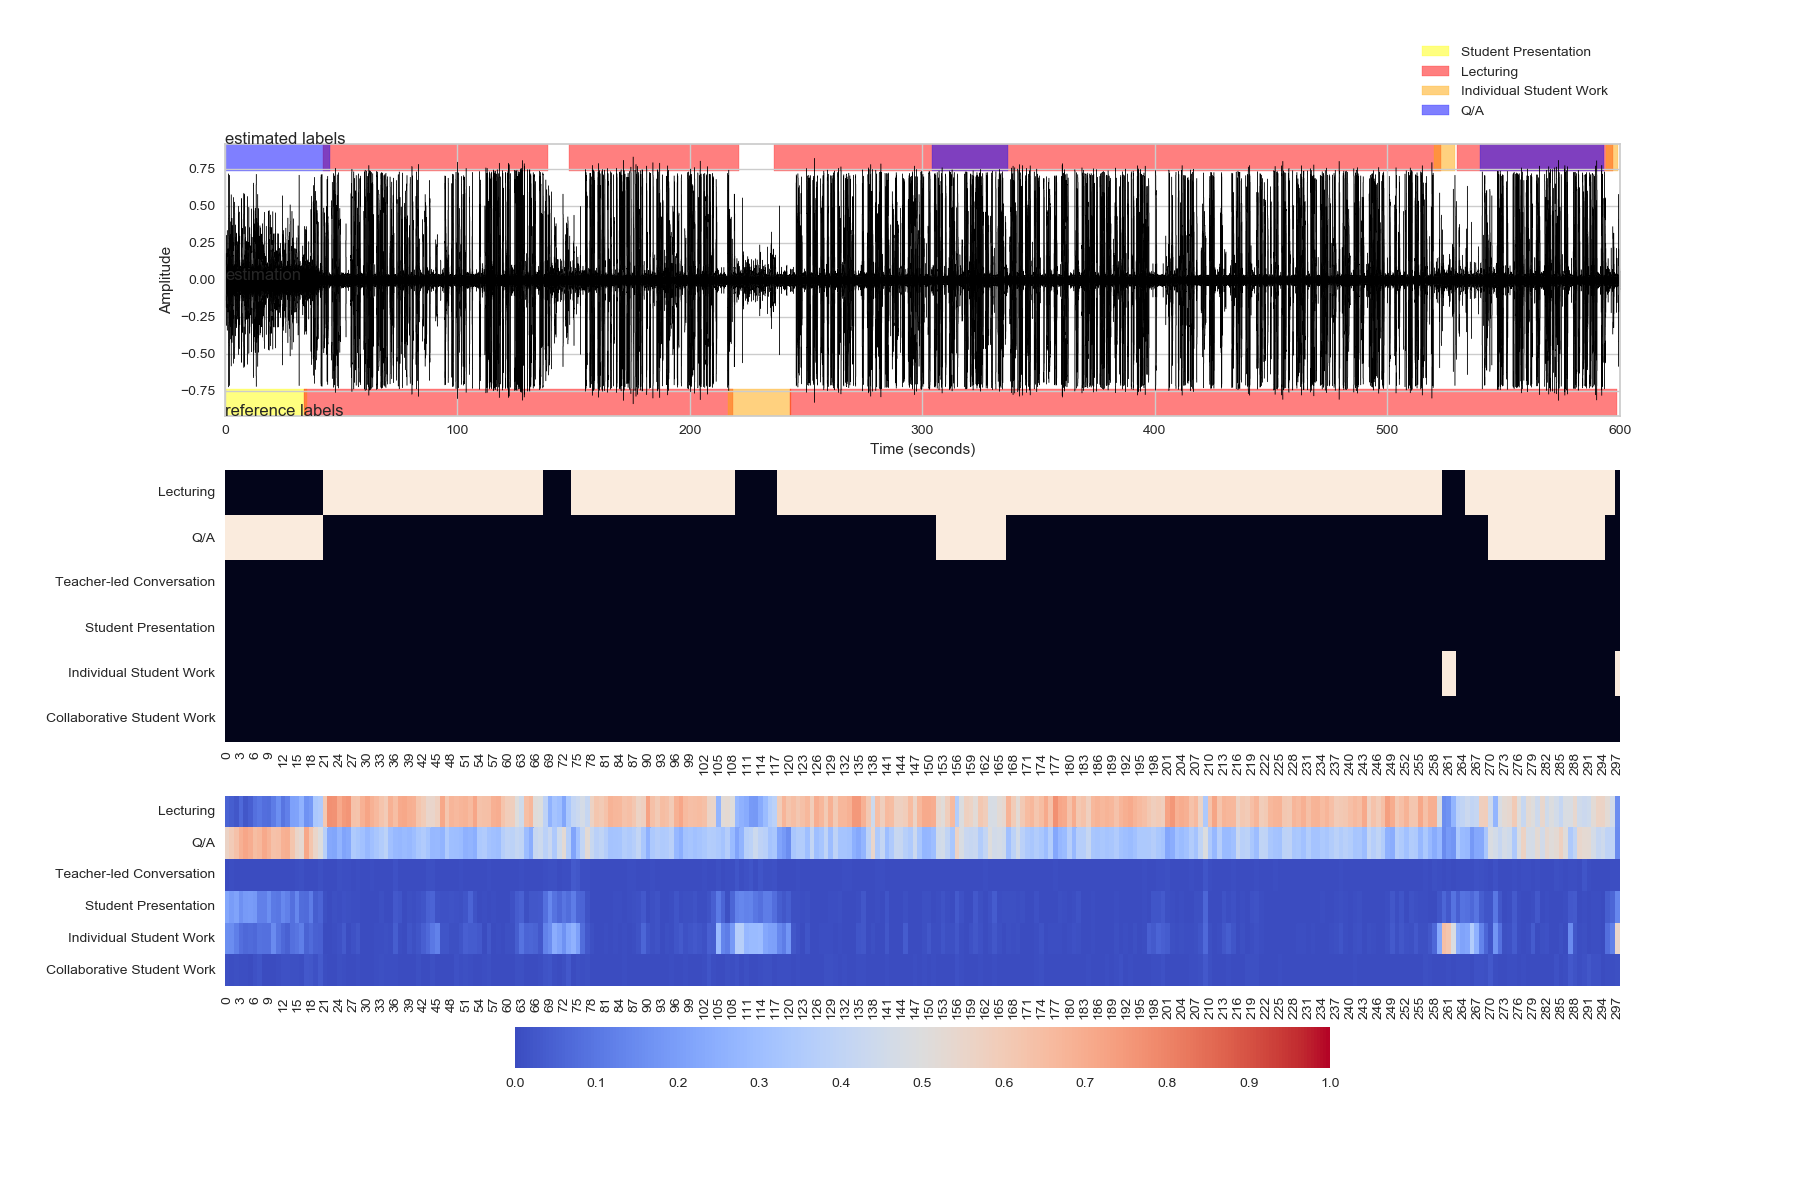
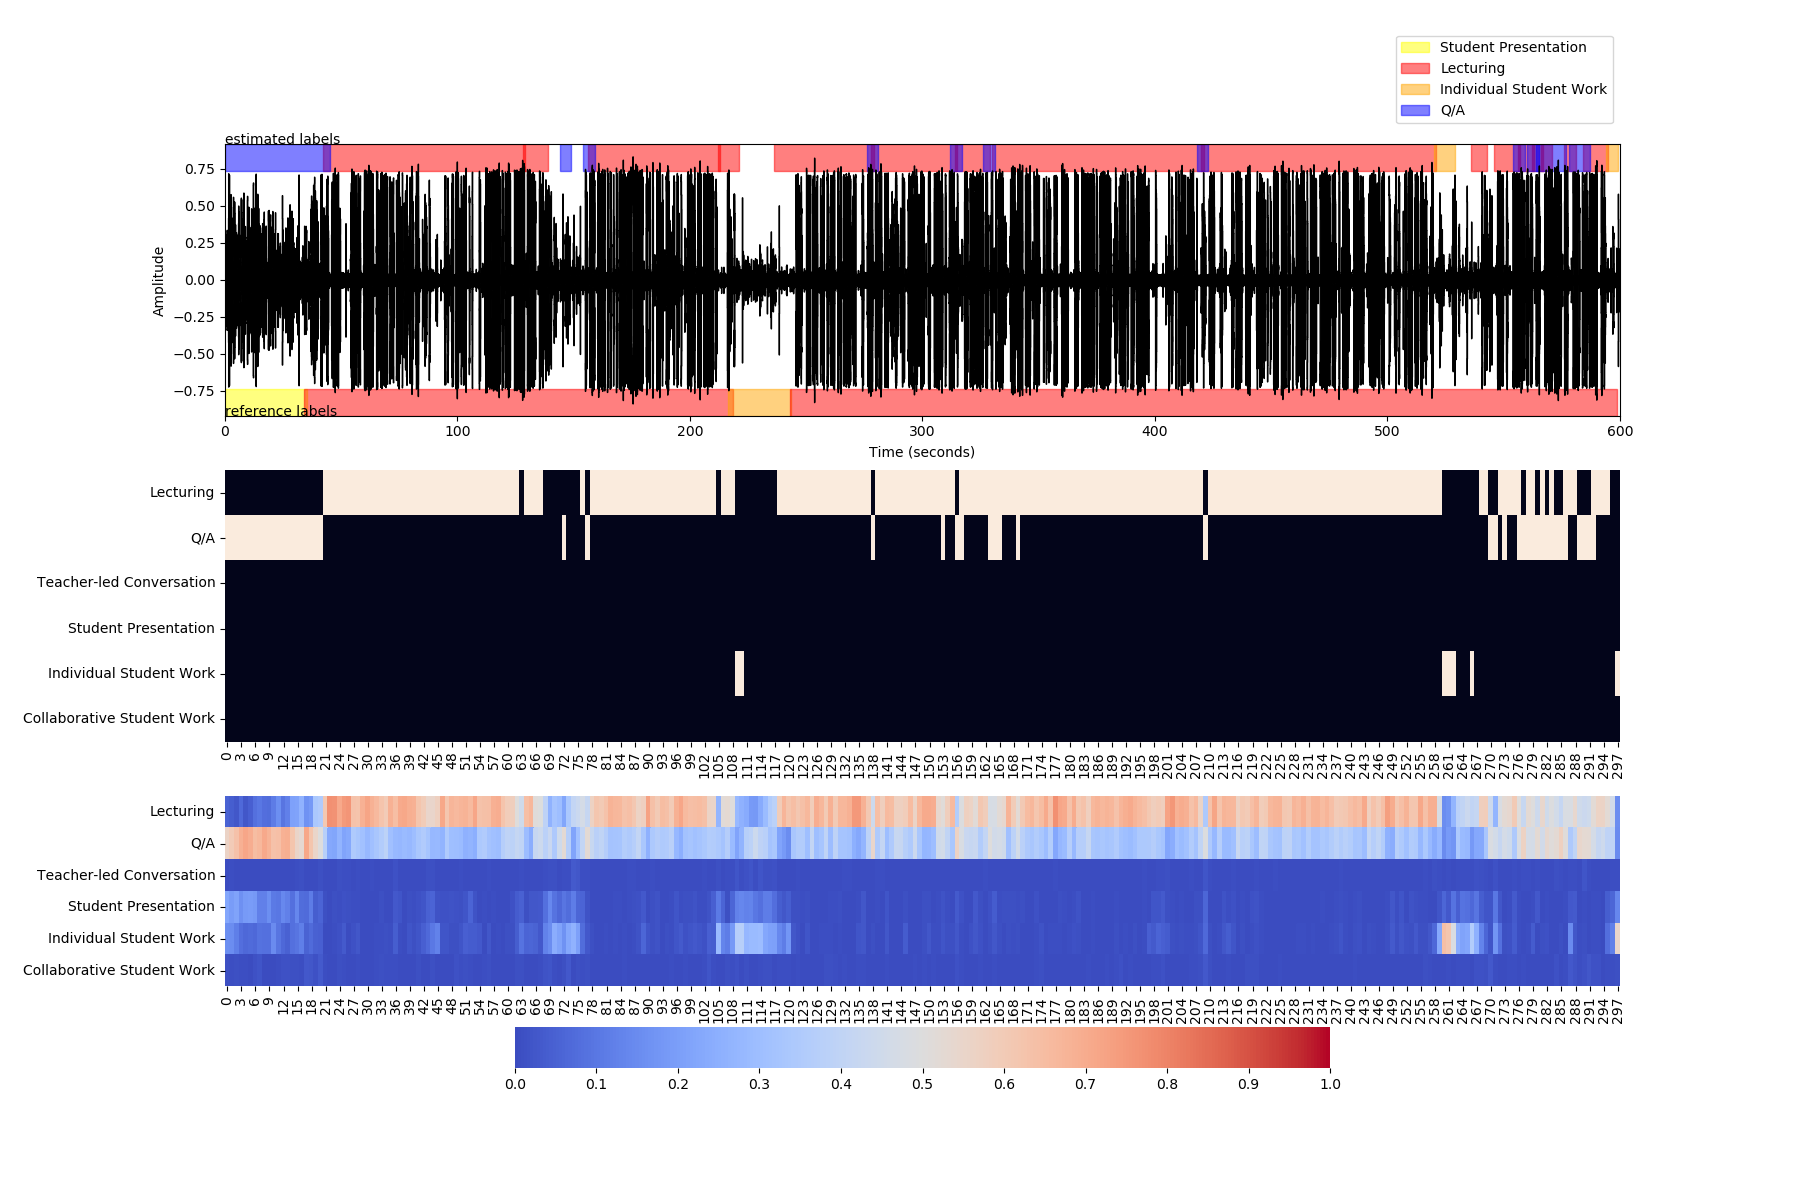
add viterbi params

diff --git a/CASED.py b/CASED.py
@@ -189,8 +189,16 @@ class CASED:
         y_pred_prob = self.best_model.predict_proba(features_matrix)
 
         return y_pred_prob
+    
+    def predict_threshold(self, file_name, audio_path, cache_path, load_cache=False):
+        y_pred_prob = self.predict_proba(file_name, audio_path, cache_path, load_cache=load_cache)
 
-    def predict_binary(self, file_name, audio_path, cache_path, trans_prob_01=0.5, trans_prob_10=0.5,
+        y_pred_threshold = np.array(
+            [(y_pred_prob_label[:, 1]>0.5).astype(int) for y_pred_prob_label in y_pred_prob])  # proba matrix [num classes, num samples]
+
+        return y_pred_threshold
+
+    def predict_viterbi(self, file_name, audio_path, cache_path, trans_prob_01=0.5, trans_prob_10=0.5,
                        p_state_weight=0.1,
                        load_cache=False):
         y_pred_prob = self.predict_proba(file_name, audio_path, cache_path, load_cache=load_cache)
@@ -208,14 +216,22 @@ class CASED:
         return binary_pred
 
     def predict_annotation(self, file_name, audio_path, cache_path, trans_prob_01=0.5, trans_prob_10=0.5,
-                           p_state_weight=0.1,
+                           p_state_weight=0.1, predict_type = 'viterbi_with_pstate',
                            load_cache=False):
         """predict the smoothed (onset,offset) sequence for each target class"""
         assert self.best_model is not None, 'get the best model first!'
+        assert predict_type in ['viterbi_with_pstate', 'viterbi_without_pstate', 'threshold']
 
-        binary_pred = self.predict_binary(file_name, audio_path, cache_path, trans_prob_01=trans_prob_01,
-                                          trans_prob_10=trans_prob_10, p_state_weight=p_state_weight,
-                                          load_cache=load_cache)
+        if predict_type == 'viterbi_with_pstate':
+            binary_pred = self.predict_viterbi(file_name, audio_path, cache_path, trans_prob_01=trans_prob_01,
+                                            trans_prob_10=trans_prob_10, p_state_weight=p_state_weight,
+                                            load_cache=load_cache)
+        elif predict_type == 'viterbi_without_pstate':
+            binary_pred = self.predict_viterbi(file_name, audio_path, cache_path, trans_prob_01=trans_prob_01,
+                                            trans_prob_10=trans_prob_10, p_state_weight=0,
+                                            load_cache=load_cache)
+        else:
+            binary_pred = self.predict_threshold(file_name, audio_path, cache_path, load_cache=load_cache)
 
         # Get start time, end time of consecutive 1s for each class
         append1 = np.zeros((binary_pred.shape[0], 1), dtype=int)
@@ -229,6 +245,8 @@ class CASED:
         estimated_event_list = []
         inv_map = self.reverse_label_dict
         for detected in start_stop:
+            if detected[0] not in self.reverse_label_dict.keys():
+                continue
             start_t = detected[1] * self.step_t
             end_t = detected[2] * self.step_t + self.frac_t
             estimated_event_list.append(
@@ -236,7 +254,7 @@ class CASED:
         return estimated_event_list
 
     def evaluate_all(self, annot_path, audio_path, cache_path, eval_result_path, trans_prob_01=None, trans_prob_10=None,
-                     p_state_weight=None, plot=False, load_cache=True):
+                     p_state_weight=None, plot=False, predict_type = 'viterbi_with_pstate', load_cache=True):
         if trans_prob_01 == None and trans_prob_10 == None and p_state_weight == None:
             trans_prob_01, trans_prob_10, p_state_weight = self.best_trans_prob_01, self.best_trans_prob_10, self.best_p_state_weight
 
@@ -256,7 +274,7 @@ class CASED:
                 reference_event_list = metadict['tricks']
             estimated_event_list = self.predict_annotation(file, audio_path, cache_path,
                                                            trans_prob_01=trans_prob_01, trans_prob_10=trans_prob_10,
-                                                           p_state_weight=p_state_weight,
+                                                           p_state_weight=p_state_weight, predict_type=predict_type,
                                                            load_cache=load_cache)
             for est_event_dict in estimated_event_list:
                 est_event_dict['event_label'] = self.label_dict[est_event_dict['event_label']]
@@ -284,6 +302,7 @@ class CASED:
             evaluation.plot_metrics(eval_result)
             confusion_matrix, event_labels = evaluation.get_confusion_matrix(evaluated_length_seconds=None)
             evaluation.plot_confusion_matrix(confusion_matrix, event_labels)
+        print(f'evaluated audios in {audio_path}')
 
         return macro_f
 
@@ -319,25 +338,35 @@ class CASED:
             with open(params_path, "wb") as f:
                 pickle.dump(params_set, f)
 
-    def visualize_pred(self, file_name, audio_path, cache_test_path, save_path, annot_path, trans_prob_01=0.5,
-                       trans_prob_10=0.5,
+    def visualize_pred(self, file_name, audio_path, cache_test_path, save_path, annot_path, trans_prob_01=None, trans_prob_10=None, p_state_weight=None, predict_type='viterbi_with_pstate',
                        load_cache=False):
+        assert predict_type in ['viterbi_with_pstate', 'viterbi_without_pstate', 'threshold']
+        if trans_prob_01 == None and trans_prob_10 == None and p_state_weight == None:
+            trans_prob_01, trans_prob_10, p_state_weight = self.best_trans_prob_01, self.best_trans_prob_10, self.best_p_state_weight
+
+        if predict_type == 'viterbi_with_pstate':
+            binary_pred = self.predict_viterbi(file_name, audio_path, cache_path, trans_prob_01=trans_prob_01,
+                                            trans_prob_10=trans_prob_10, p_state_weight=p_state_weight,
+                                            load_cache=load_cache)
+        elif predict_type == 'viterbi_without_pstate':
+            binary_pred = self.predict_viterbi(file_name, audio_path, cache_path, trans_prob_01=trans_prob_01,
+                                            trans_prob_10=trans_prob_10, p_state_weight=0,
+                                            load_cache=load_cache)
+        else:
+            binary_pred = self.predict_threshold(file_name, audio_path, cache_path, load_cache=load_cache)
         proba_pred = self.predict_proba(file_name, audio_path, cache_test_path, load_cache=load_cache)
-        binary_pred = self.predict_binary(file_name, audio_path, cache_test_path, trans_prob_01=trans_prob_01,
-                                          trans_prob_10=trans_prob_10,
-                                          load_cache=load_cache)
 
         with open(annot_path, 'r') as f:
             annot = json.load(f)
         metadict = self.get_metadict(annot, file_name)
         reference_event_list = metadict['tricks']
         estimated_event_list = self.predict_annotation(file_name, audio_path, cache_test_path,
-                                                       trans_prob_01=trans_prob_01, trans_prob_10=trans_prob_10,
+                                                       trans_prob_01=trans_prob_01, trans_prob_10=trans_prob_10, predict_type = predict_type,
                                                        load_cache=load_cache)
         visualizer = Visualizer(self.label_dict, self.reverse_label_dict)
         visualizer.plot(file_name, audio_path, save_path, reference_event_list, estimated_event_list, proba_pred,
                         binary_pred)
-        print(f'evaluated all audios in {audio_path} and results stored')
+        print(f'visualized audio in {file_name}')
 
 
 if __name__ == '__main__':
@@ -368,9 +397,8 @@ if __name__ == '__main__':
     cased.search_viterbi_params(annot_path, audio_path, cache_path, model_cache_path, eval_val_path,
                                 load_cache_params=True)
 
-    cased.evaluate_all(annot_path, audio_test_path, cache_test_path, eval_test_path, plot=True, load_cache=True)
+    cased.evaluate_all(annot_path, audio_test_path, cache_test_path, eval_test_path, plot=True, predict_type = 'threshold', load_cache=True)
 
     audiofiles_test = [f for f in os.listdir(audio_test_path) if f.endswith('wav')]
     for test_audio in audiofiles_test:
-        cased.visualize_pred(test_audio, audio_test_path, cache_test_path, plot_path, annot_path, trans_prob_01=0.5,
-                             trans_prob_10=0.3, load_cache=True)
+        cased.visualize_pred(test_audio, audio_test_path, cache_test_path, plot_path, annot_path, predict_type = 'viterbi_with_pstate', load_cache=True)

diff --git a/StagewiseModelScore.py b/StagewiseModelScore.py
@@ -19,23 +19,58 @@ if __name__ == '__main__':
     eval_val_path = 'data/COAS_2/Eval_val'
     plot_path = 'Plots'
 
-    # Version 0: without data augmentation and multi-scaling
-    cased = CASED(frac_t, long_frac_t, long_long_frac_t, step_t, target_class_version=0)
+    # Version 0: without data augmentation and multi-scaling, predict threshold
+    cased0 = CASED(frac_t, long_frac_t, long_long_frac_t, step_t, target_class_version=0)
 
-    cased.load_train_data(annot_path, audio_path, cache_path, audio_aug_path=False, cache_aug_path=False,
+    cased0.load_train_data(annot_path, audio_path, cache_path, audio_aug_path=False, cache_aug_path=False,
                           aug_dict_path=False, load_cache=True, num_folds=5, multi_scaling=False)
-    print(f"V0 \nfeatures matrix shape: {cased.features_matrix_all.shape} \n labels matrix shape: {cased.labels_matrix_all.shape}")
+    print(f"V0 \nfeatures matrix shape: {cased0.features_matrix_all.shape} \n labels matrix shape: {cased0.labels_matrix_all.shape}")
 
-    # Version 1,2,3: without data augmentation
-    cased = CASED(frac_t, long_frac_t, long_long_frac_t, step_t, target_class_version=0)
+    cased0.randomized_search_cv(n_iter_search=10, cache_path=model_cache_path, load_cache=True)
 
-    cased.load_train_data(annot_path, audio_path, cache_path, audio_aug_path=False, cache_aug_path=False,
+    cased0.evaluate_all(annot_path, audio_test_path, cache_test_path, eval_test_path, plot=True, predict_type = 'threshold', load_cache=True)
+
+    # Version 1: without multi-scaling, predict threshold
+    cased1 = CASED(frac_t, long_frac_t, long_long_frac_t, step_t, target_class_version=0)
+
+    cased1.load_train_data(annot_path, audio_path, cache_path, audio_aug_path=False, cache_aug_path=False,
                           aug_dict_path=False, load_cache=True, num_folds=5, multi_scaling=True)
-    print(f"V123 \nfeatures matrix shape: {cased.features_matrix_all.shape} \n labels matrix shape: {cased.labels_matrix_all.shape}")
+    print(f"V123 \nfeatures matrix shape: {cased1.features_matrix_all.shape} \n labels matrix shape: {cased1.labels_matrix_all.shape}")
+
+    cased1.randomized_search_cv(n_iter_search=10, cache_path=model_cache_path, load_cache=True)
+
+    cased1.evaluate_all(annot_path, audio_test_path, cache_test_path, eval_test_path, plot=True, predict_type = 'threshold', load_cache=True)
+
+    # Version 2: without multi-scaling, predict viterbi without pstate
+    cased2 = CASED(frac_t, long_frac_t, long_long_frac_t, step_t, target_class_version=0)
+
+    cased2.load_train_data(annot_path, audio_path, cache_path, audio_aug_path=False, cache_aug_path=False,
+                          aug_dict_path=False, load_cache=True, num_folds=5, multi_scaling=True)
+    print(f"V123 \nfeatures matrix shape: {cased2.features_matrix_all.shape} \n labels matrix shape: {cased2.labels_matrix_all.shape}")
+
+    cased2.randomized_search_cv(n_iter_search=10, cache_path=model_cache_path, load_cache=True)
+
+    cased2.evaluate_all(annot_path, audio_test_path, cache_test_path, eval_test_path, plot=True, predict_type = 'viterbi_without_pstate', load_cache=True)
+
+    # Version 3: without multi-scaling, predict viterbi with pstate
+    cased3 = CASED(frac_t, long_frac_t, long_long_frac_t, step_t, target_class_version=0)
+
+    cased3.load_train_data(annot_path, audio_path, cache_path, audio_aug_path=False, cache_aug_path=False,
+                          aug_dict_path=False, load_cache=True, num_folds=5, multi_scaling=True)
+    print(f"V123 \nfeatures matrix shape: {cased3.features_matrix_all.shape} \n labels matrix shape: {cased3.labels_matrix_all.shape}")
+
+    cased3.randomized_search_cv(n_iter_search=10, cache_path=model_cache_path, load_cache=True)
+
+    cased3.evaluate_all(annot_path, audio_test_path, cache_test_path, eval_test_path, plot=True, predict_type = 'viterbi_with_pstate', load_cache=True)
+
 
     # Version 4: with data augmentation and multi-scaling
-    cased = CASED(frac_t, long_frac_t, long_long_frac_t, step_t, target_class_version=0)
+    cased4 = CASED(frac_t, long_frac_t, long_long_frac_t, step_t, target_class_version=0)
 
-    cased.load_train_data(annot_path, audio_path, cache_path, audio_aug_path=audio_aug_path, cache_aug_path=cache_aug_path,
+    cased4.load_train_data(annot_path, audio_path, cache_path, audio_aug_path=audio_aug_path, cache_aug_path=cache_aug_path,
                           aug_dict_path=aug_dict_path, load_cache=True, num_folds=5, multi_scaling=True)
-    print(f"V4 \nfeatures matrix shape: {cased.features_matrix_all.shape} \n labels matrix shape: {cased.labels_matrix_all.shape}")
+    print(f"V4 \nfeatures matrix shape: {cased4.features_matrix_all.shape} \n labels matrix shape: {cased4.labels_matrix_all.shape}")
+
+    cased4.randomized_search_cv(n_iter_search=10, cache_path=model_cache_path, load_cache=True)
+
+    cased4.evaluate_all(annot_path, audio_test_path, cache_test_path, eval_test_path, plot=True, predict_type = 'viterbi_with_pstate', load_cache=True)
